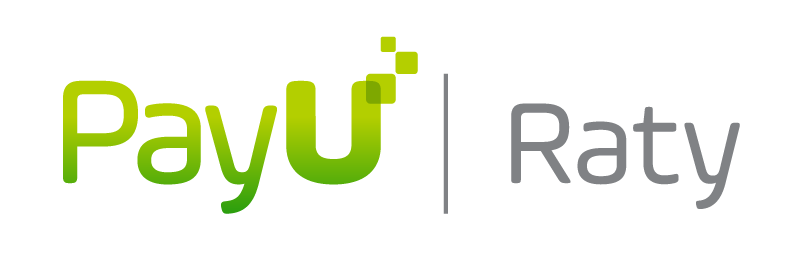
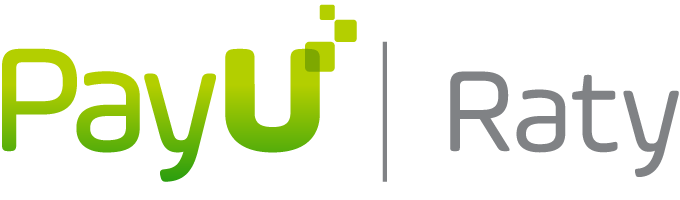
[PCP-9034] payu later button on checkout page

Changed region(s): [[0.0, 0.0, 0.525, 0.9], [0.6176, 0.33, 1.0, 0.9], [0.5559, 0.21, 0.5868, 0.9]]

diff --git a/payu/css/payu.css b/payu/css/payu.css
@@ -14,7 +14,6 @@ p.payment_module a.payu {
 
 p.payment_module a.payu img {
     margin-right: 10px;
-    height: 80px;
     vertical-align: middle;
 }
 
@@ -35,6 +34,7 @@ p.payment_module a.payu:after {
 p.payment_module a.payu:hover {
     background-color: #f6f6f6;
 }
+
 .img-preview img {
     max-width: 680px;
 }
@@ -142,6 +142,29 @@ p.payment_module_17 a.payu img {
 .payu-installment-price-listing > p {
     font-size: 12px;
     display: inline-block;
+}
+
+.payu-later-logo {
+    width: 200px;
+    margin-top: -20px;
+}
+
+img[src*="logo-payu.png"] {
+    width: 50px;
+    position: absolute;
+    margin-top: -25px;
+    margin-left: 5px;
+}
+
+.payu-pay-image-16 {
+    width: 50px;
+    height: 25px;
+    margin-top: 16px;
+    margin-bottom: 16px;
+}
+
+p.payment_module a.payu-payment-credit-tile {
+    padding: 28px;
 }
 
 .payu-separator-reset{

diff --git a/payu/payu.php b/payu/payu.php
@@ -651,8 +651,8 @@ class PayU extends PaymentModule
         }
 
         $paymentOption = new PrestaShop\PrestaShop\Core\Payment\PaymentOption();
-        $paymentOption->setCallToActionText($this->l('Payment by card or bank transfer via PayU'))
-            ->setLogo($this->getPayuLogo('payu_u_icon.png'))
+        $paymentOption->setCallToActionText($this->l('Pay by online transfer or card'))
+            ->setLogo($this->getPayuLogo('logo-payu.png'))
             ->setModuleName($this->name)
             ->setAction($this->context->link->getModuleLink($this->name, 'payment'));
 
@@ -665,15 +665,24 @@ class PayU extends PaymentModule
                     'total_price' => $totalPrice
                 ));
 
-                $creditOption = new PrestaShop\PrestaShop\Core\Payment\PaymentOption();
-                $creditOption->setCallToActionText(
-                    $this->l('Płatność na raty z PayU')
+                $installmentOption = new PrestaShop\PrestaShop\Core\Payment\PaymentOption();
+                $installmentOption->setCallToActionText(
+                    $this->l('Pay online in installments')
                 )
                     ->setModuleName($this->name)
                     ->setAdditionalInformation($this->fetchTemplate('checkout_installment.tpl'))
                     ->setAction($this->context->link->getModuleLink($this->name, 'payment?payuPay=1&payMethod=ai&payuConditions=true'));
 
-                return array($paymentOption, $creditOption);
+                $payULaterOption = new PrestaShop\PrestaShop\Core\Payment\PaymentOption();
+                $payULaterOption->setCallToActionText(
+                    $this->l('Pay within 30 days with PayU')
+                )
+                    ->setModuleName($this->name)
+                    ->setAdditionalInformation($this->fetchTemplate('checkout_payu_later.tpl'))
+                    ->setAction($this->context->link->getModuleLink($this->name, 'payment?payuPay=1&payMethod=dp&payuConditions=true'));
+
+
+                return array($paymentOption, $installmentOption, $payULaterOption);
             }
         }
 
@@ -693,6 +702,7 @@ class PayU extends PaymentModule
                 'creditImage' => $this->getPayuLogo('raty_small2.png'),
                 'actionUrl' => $link,
                 'creditActionUrl' => $link."?payuPay=1&payMethod=ai&payuConditions=true",
+                'creditPayULaterActionUrl' => $link."?payuPay=1&payMethod=dp&payuConditions=true",
                 'credit_available' => (Configuration::get('PAYU_PROMOTE_CREDIT') === '1' &&
                     $params['cart']->getOrderTotal() > Configuration::get('PAYU_MIN_CREDIT_AMOUNT')),
                 'cart_total_amount'=>$params['cart']->getOrderTotal())
